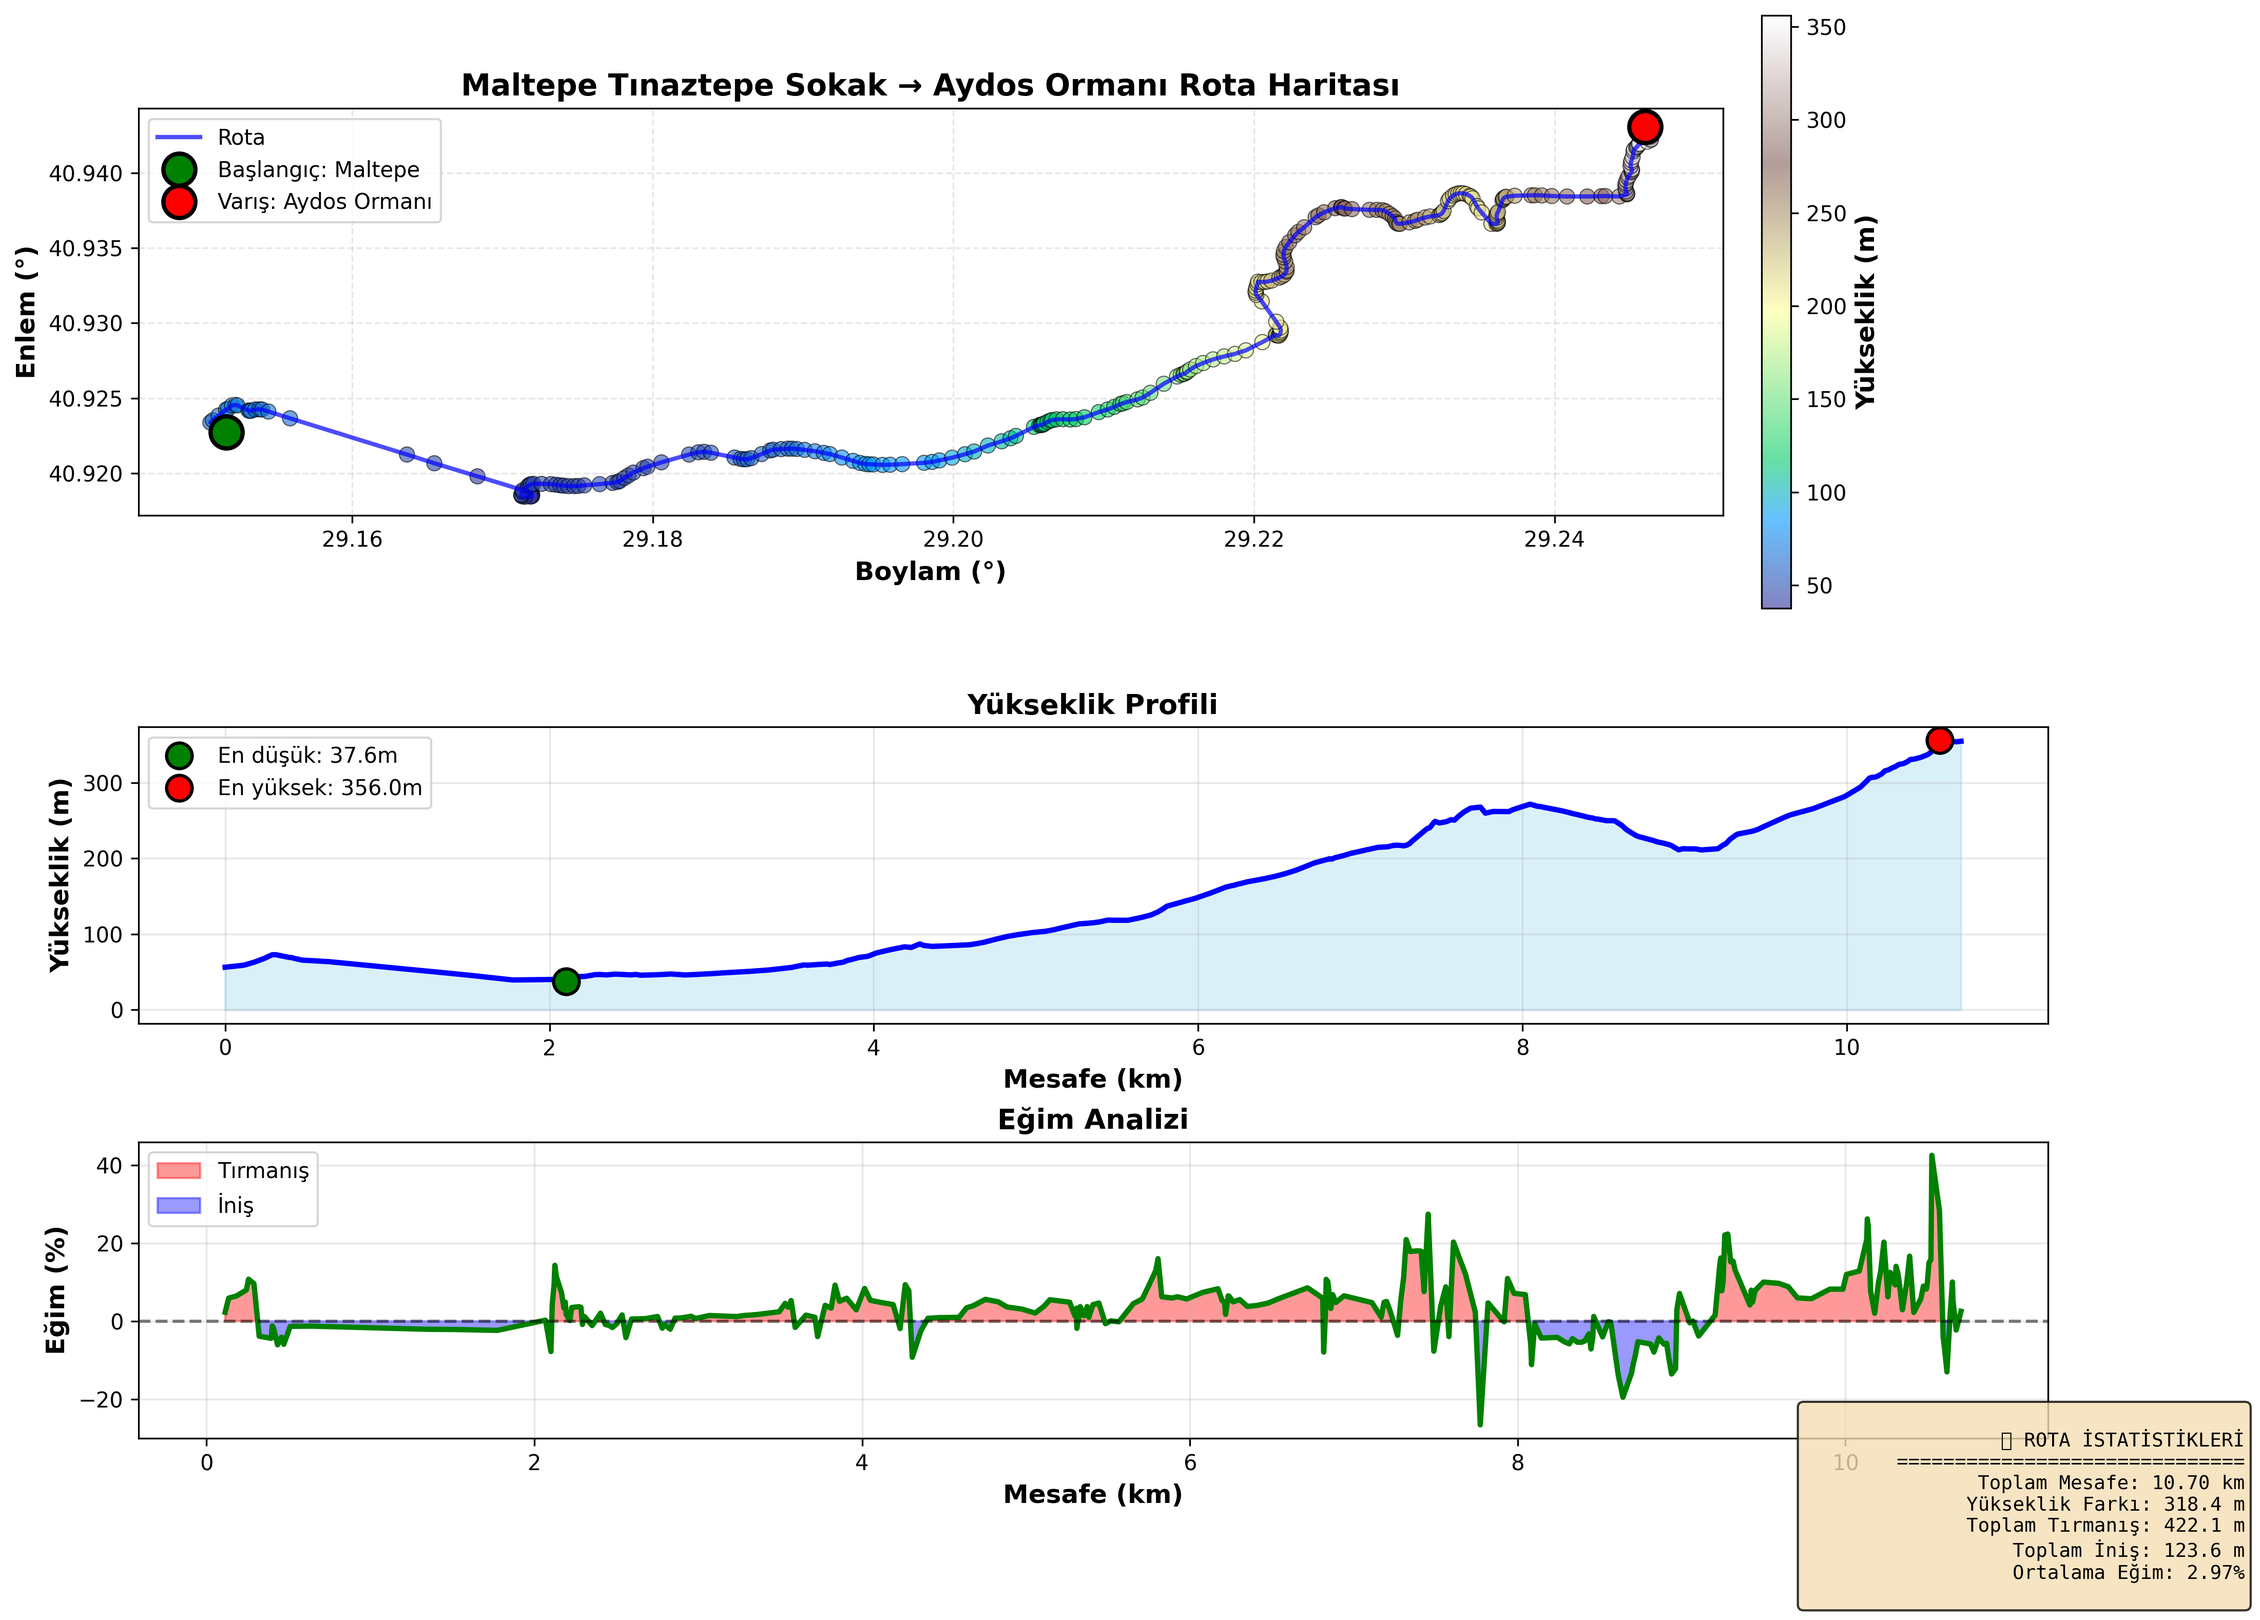
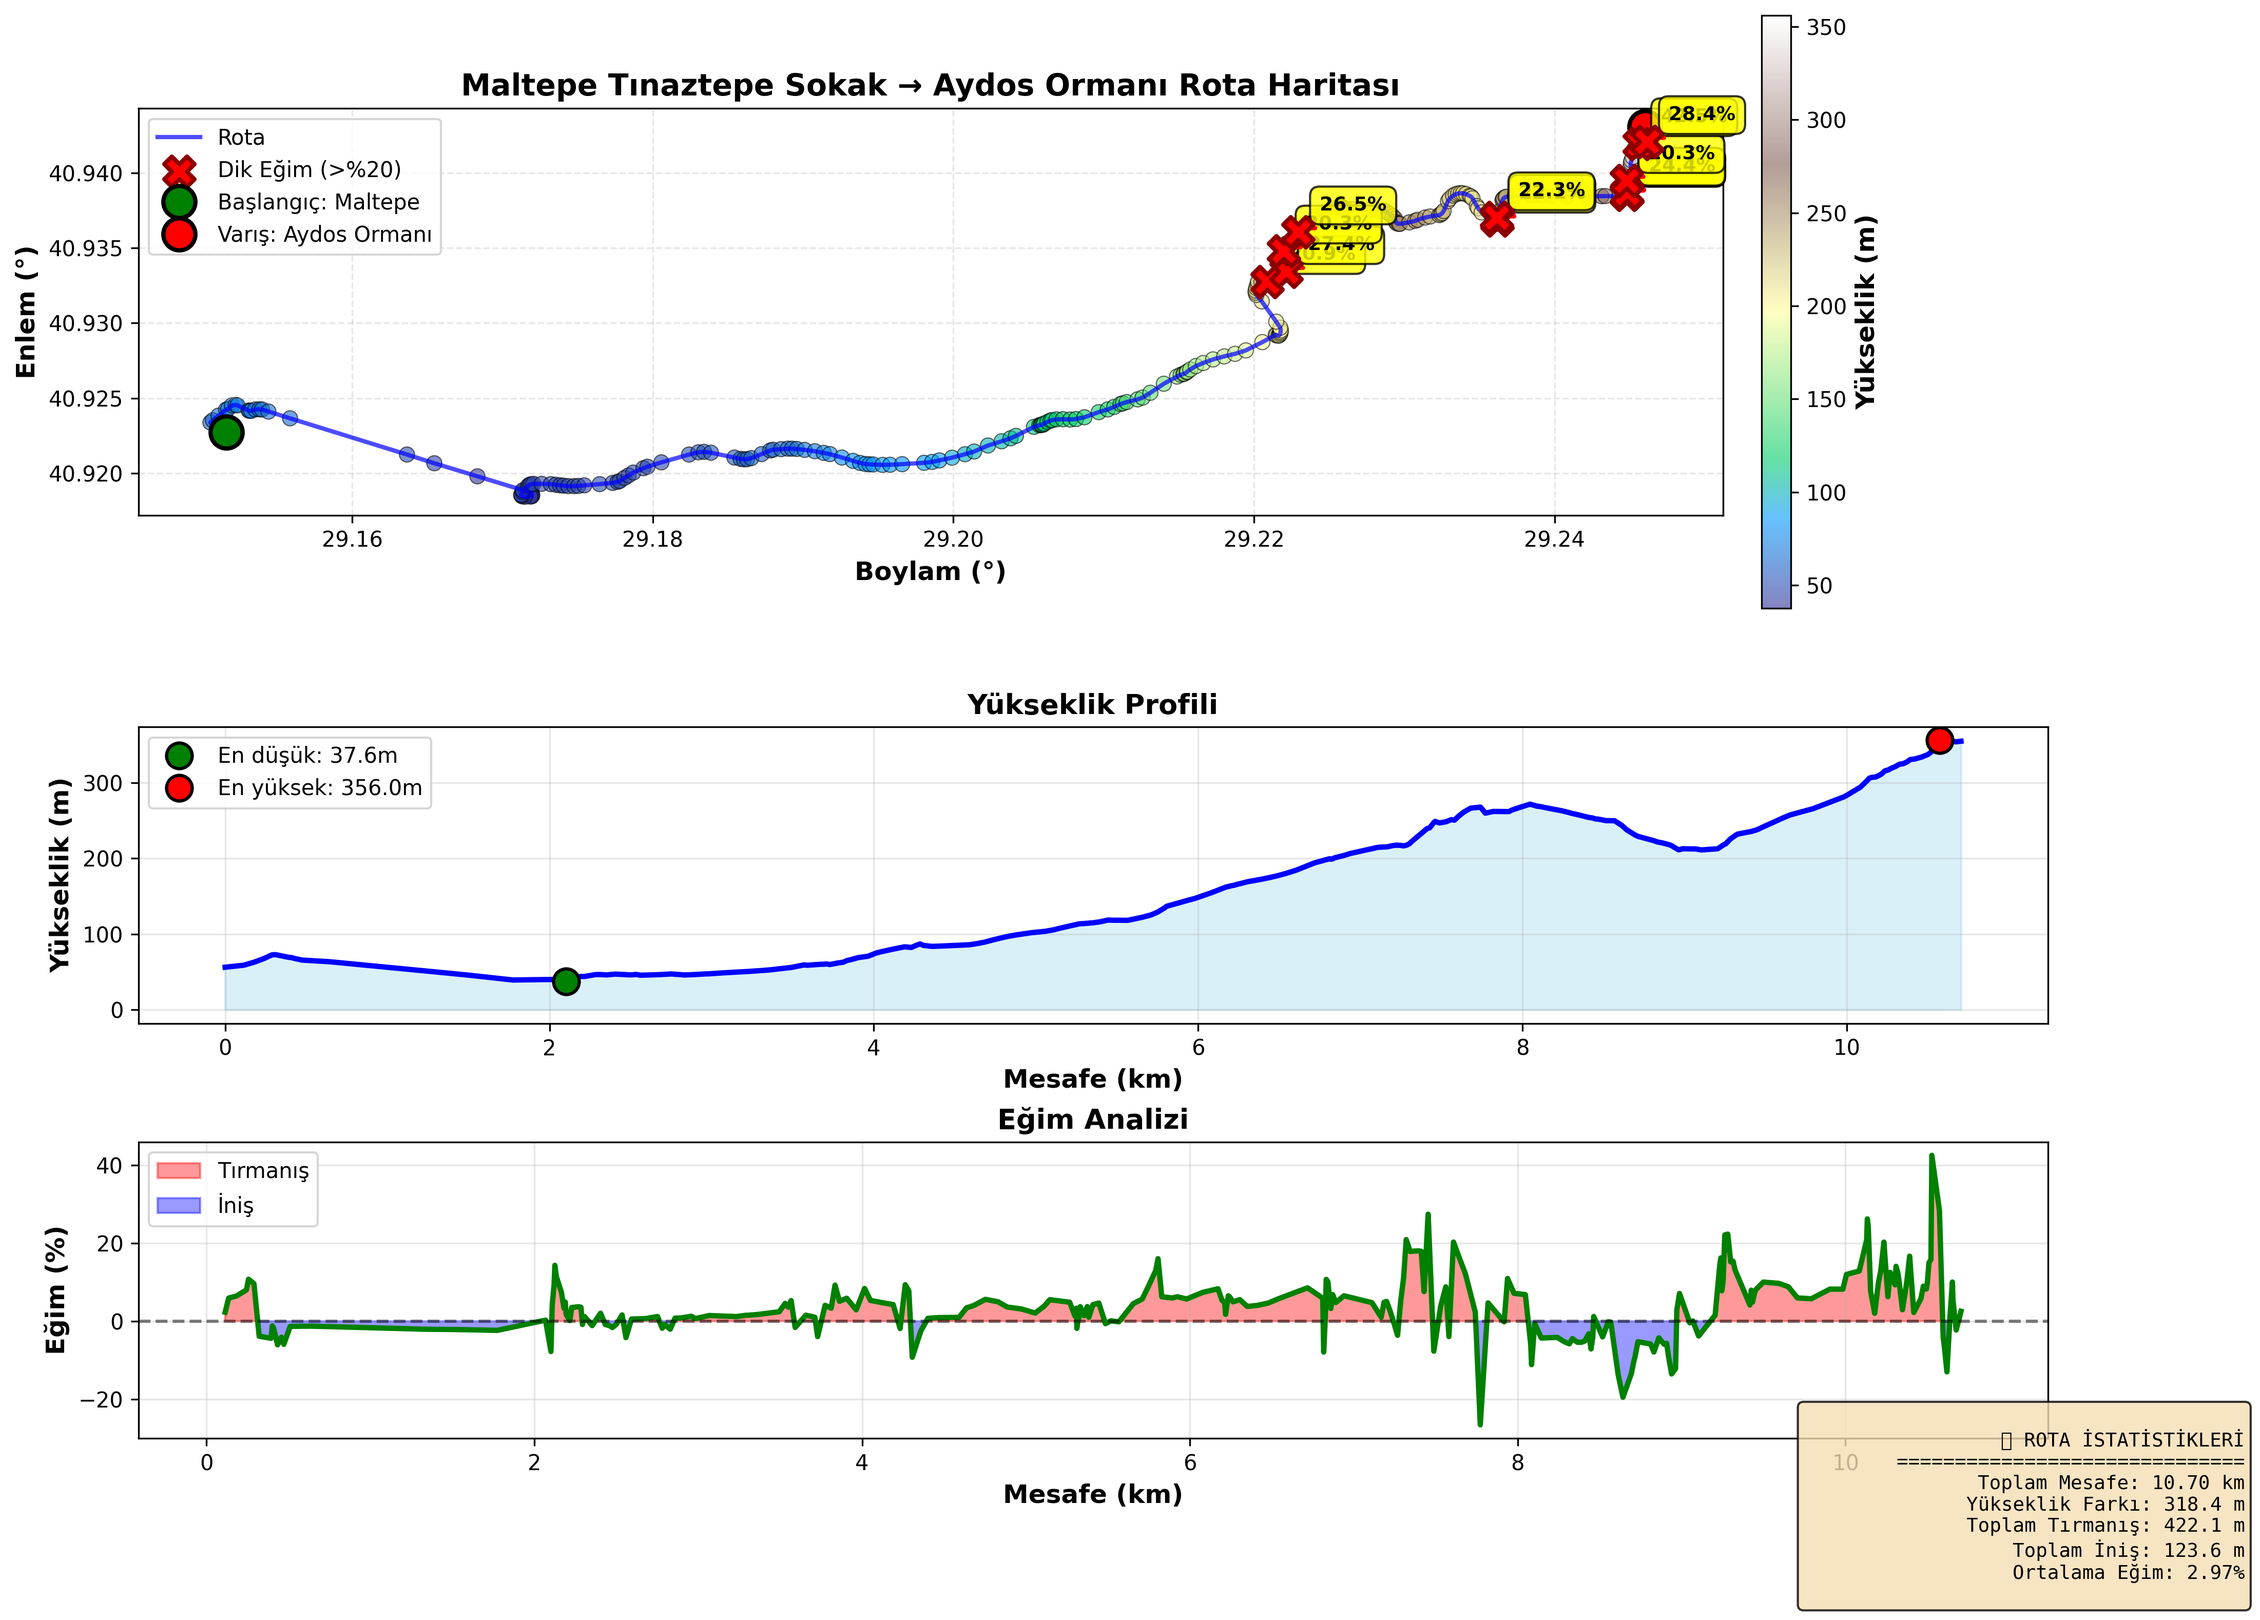
added slope indicator for above %20 in graphs

Changed region(s): [[0.6534, 0.0621, 0.7779, 0.1553], [0.0622, 0.0932, 0.1867, 0.1553], [0.529, 0.0932, 0.6223, 0.1863]]

diff --git a/src/route_calculator.py b/src/route_calculator.py
@@ -204,12 +204,25 @@ class RouteElevationAnalyzer:
         # Grid layout oluştur
         gs = fig.add_gridspec(3, 2, height_ratios=[2, 1, 1], hspace=0.3, wspace=0.3)
         
-        # 1. HAİTA - Rota görünümü (üstte, geniş)
-        ax_map = fig.add_subplot(gs[0, :])
-        
+        # Eğim hesaplama (harita için)
         lats = [coord[0] for coord in results['coordinates']]
         lngs = [coord[1] for coord in results['coordinates']]
         elevations = results['elevations']
+        
+        gradients_map = [0]  # İlk nokta için eğim 0
+        for i in range(1, len(results['elevations'])):
+            if results['distances'][i] != results['distances'][i-1]:
+                gradient = (results['elevations'][i] - results['elevations'][i-1]) / \
+                          ((results['distances'][i] - results['distances'][i-1]) * 1000) * 100
+                gradients_map.append(gradient)
+            else:
+                gradients_map.append(0)
+        
+        # %20'yi aşan eğim noktalarını tespit et
+        steep_indices = [i for i, g in enumerate(gradients_map) if abs(g) > 20]
+        
+        # 1. HAİTA - Rota görünümü (üstte, geniş)
+        ax_map = fig.add_subplot(gs[0, :])
         
         # Yüksekliğe göre renklendirme
         scatter = ax_map.scatter(lngs, lats, c=elevations, cmap='terrain', 
@@ -217,6 +230,25 @@ class RouteElevationAnalyzer:
         
         # Rota çizgisini çiz
         ax_map.plot(lngs, lats, 'b-', linewidth=2, alpha=0.7, label='Rota')
+        
+        # %20'yi aşan dik eğim bölgelerini vurgula
+        if steep_indices:
+            steep_lats = [lats[i] for i in steep_indices]
+            steep_lngs = [lngs[i] for i in steep_indices]
+            steep_grads = [gradients_map[i] for i in steep_indices]
+            
+            ax_map.scatter(steep_lngs, steep_lats, c='red', s=200, 
+                          marker='X', edgecolors='darkred', linewidth=2,
+                          label='Dik Eğim (>%20)', zorder=5)
+            
+            # Her dik eğim noktasını etiketle
+            for i, idx in enumerate(steep_indices):
+                ax_map.annotate(f'{abs(gradients_map[idx]):.1f}%', 
+                              (steep_lngs[i], steep_lats[i]),
+                              xytext=(10, 10), textcoords='offset points',
+                              bbox=dict(boxstyle='round,pad=0.5', facecolor='yellow', alpha=0.8),
+                              fontsize=9, fontweight='bold',
+                              arrowprops=dict(arrowstyle='->', color='red', lw=2))
         
         # Başlangıç ve bitiş noktaları
         ax_map.plot(lngs[0], lats[0], 'go', markersize=15, label='Başlangıç: Maltepe', 
